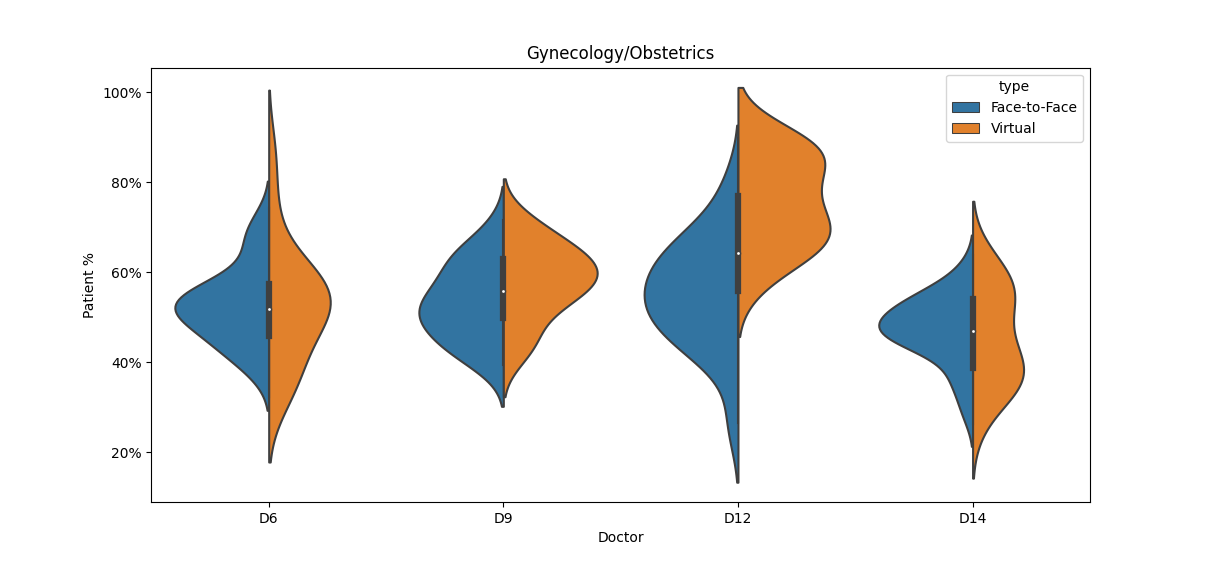
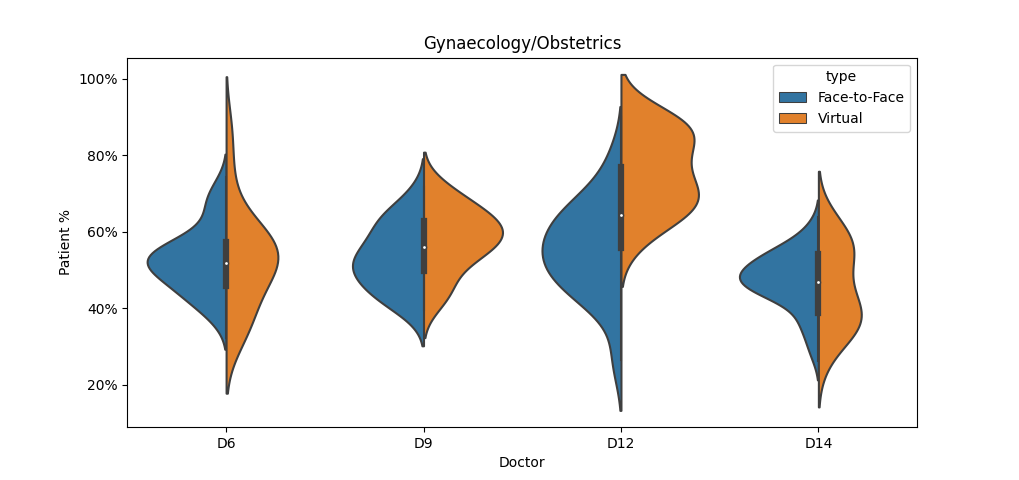
Start to write Results thesis

diff --git a/results/stats_test_Spec.py b/results/stats_test_Spec.py
@@ -54,7 +54,7 @@ def main(args):
     doctor_dic = {'Neurology': ['D1', 'D2', 'D8'],
                   'MedGeral': ['D4', 'D5', 'D7', 'D16'],
                   'Endocrinology': ['D3', 'D10'],
-                  'Gynecology/Obstetrics': ['D6', 'D9', 'D12', 'D14']}
+                  'Gynaecology/Obstetrics': ['D6', 'D9', 'D12', 'D14']}
     doctor_lst = doctor_dic[args.spec]
     df = pd.DataFrame()
     for d in doctor_lst:
